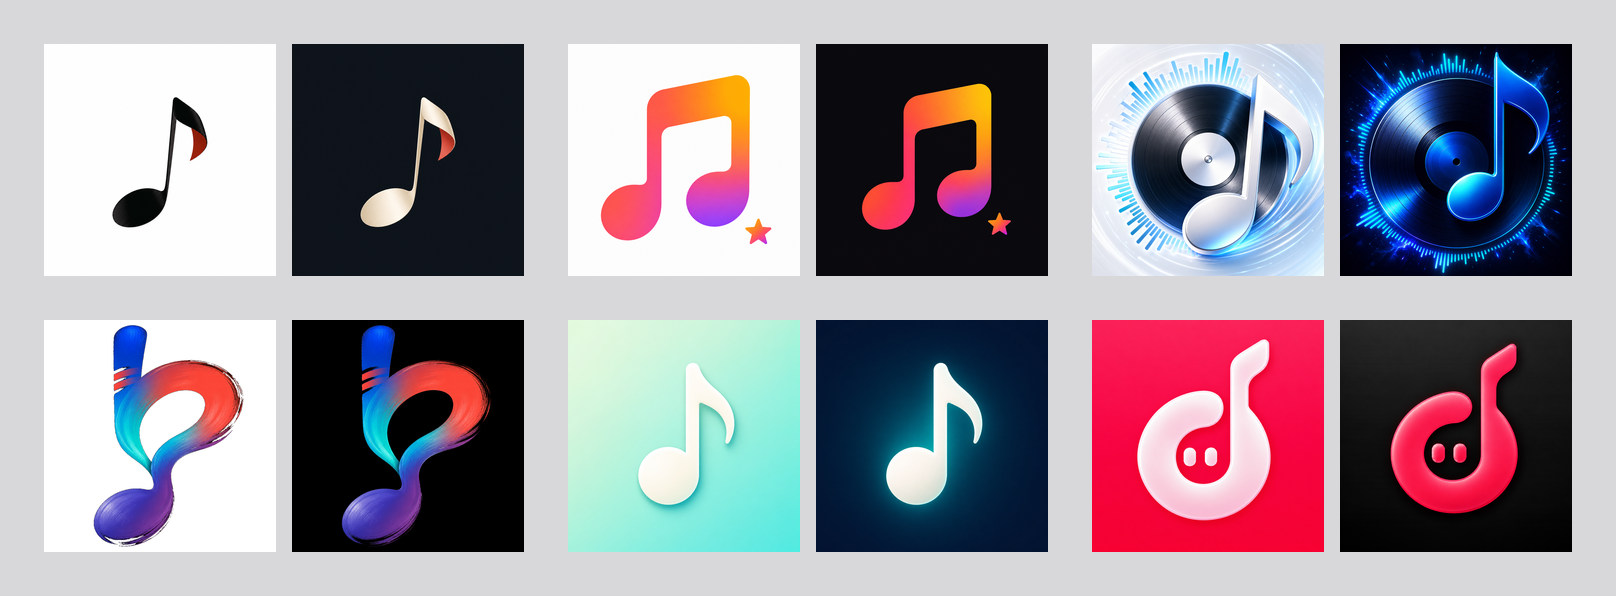
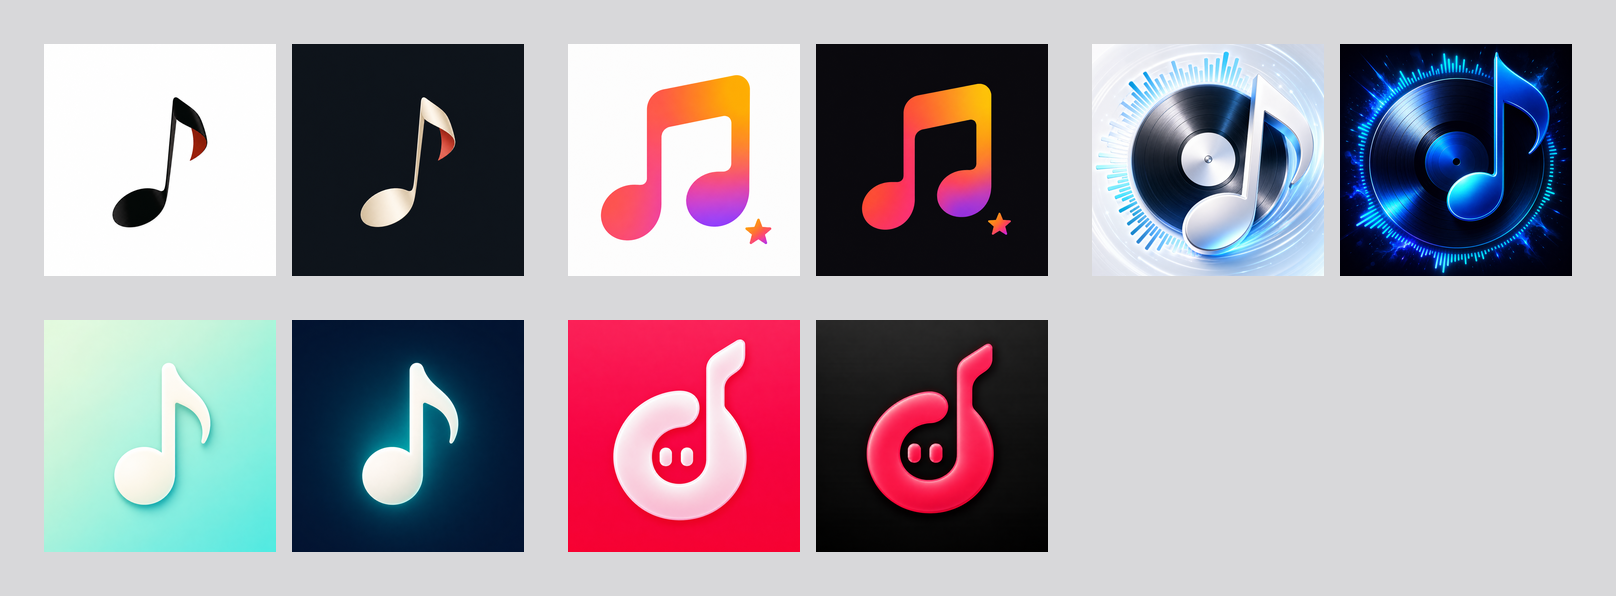
移除「彩色笔触」App 图标
已选用它的设备升级后自动回到默认图标。

diff --git a/Primuse/Views/Mac/Theme/PrimuseTheme.swift b/Primuse/Views/Mac/Theme/PrimuseTheme.swift
@@ -1615,7 +1615,6 @@ struct MacAppIcon: Identifiable, Equatable, Sendable {
         MacAppIcon(id: "",         previewAsset: "AppIconPreview",  nameKey: "icon_default", tint: Color(red: 0.914, green: 0.314, blue: 0.263)),
         MacAppIcon(id: "AppIcon9", previewAsset: "AppIcon9Preview", nameKey: "icon_theme_9", tint: Color(red: 0.078, green: 0.490, blue: 0.541)),
         MacAppIcon(id: "AppIcon12", previewAsset: "AppIcon12Preview", nameKey: "icon_theme_12", tint: Color(red: 0.965, green: 0.251, blue: 0.424)),
-        MacAppIcon(id: "AppIcon11", previewAsset: "AppIcon11Preview", nameKey: "icon_theme_11", tint: Color(red: 0.176, green: 0.651, blue: 0.890)),
         MacAppIcon(id: "AppIcon6", previewAsset: "AppIcon6Preview", nameKey: "icon_theme_6", tint: Color(red: 0.251, green: 0.835, blue: 0.784)),
         MacAppIcon(id: "AppIcon13", previewAsset: "AppIcon13Preview", nameKey: "icon_theme_13", tint: Color(red: 1, green: 0.059, blue: 0.267)),
     ]

diff --git a/Primuse/Services/AppIconService.swift b/Primuse/Services/AppIconService.swift
@@ -35,7 +35,7 @@ final class AppIconService {
 
     /// Keep the classic icon immediately after the current primary icon,
     /// then show the retained design alternatives in their existing order.
-    private static let themeOrder = [9, 12, 11, 6, 13]
+    private static let themeOrder = [9, 12, 6, 13]
 
     /// Themes that ship only a single visual variant (no dark counterpart in
     /// the asset catalog). Add a theme index here when no dark image exists.

diff --git a/scripts/generate_app_icon_assets.py b/scripts/generate_app_icon_assets.py
@@ -5,7 +5,7 @@ from __future__ import annotations
 
 from pathlib import Path
 
-from PIL import Image, ImageDraw, ImageEnhance, ImageFilter, ImageOps
+from PIL import Image, ImageDraw
 
 
 ROOT = Path(__file__).resolve().parents[1]
@@ -58,11 +58,7 @@ EXACT_ICONS = [
     ),
 ]
 
-BRUSH_ICONS = [
-    ("11-color-brush-source.png", "11-color-brush", "AppIcon11", "AppIcon11Preview"),
-]
-
-CATALOG_ORDER = ["AppIcon", "AppIcon12", "AppIcon9", "AppIcon11", "AppIcon6", "AppIcon13"]
+CATALOG_ORDER = ["AppIcon", "AppIcon12", "AppIcon9", "AppIcon6", "AppIcon13"]
 
 
 def save_direct_ios_assets(
@@ -89,39 +85,6 @@ def save_direct_ios_assets(
     any_icon.save(preview / f"{preview_name}.png", optimize=True)
     dark_icon.save(preview / f"{preview_name}-dark.png", optimize=True)
     return any_icon, dark_icon
-
-
-def make_brush_variants(source: Path) -> dict[str, Image.Image]:
-    """Preserve the selected brush artwork on pure Light/Dark backgrounds."""
-    source_image = Image.open(source).convert("RGB").resize((1024, 1024), Image.Resampling.LANCZOS)
-
-    # The selected artwork was rendered on pure black. Flood-fill only the
-    # connected black backdrop so the dark brush texture inside the mark is
-    # retained when compositing the Light appearance.
-    marker = (0, 255, 0)
-    flood = source_image.copy()
-    ImageDraw.floodfill(flood, (0, 0), marker, thresh=24)
-    ImageDraw.floodfill(flood, (600, 410), marker, thresh=24)
-    alpha = Image.new("L", source_image.size, 255)
-    alpha.putdata([0 if pixel == marker else 255 for pixel in flood.get_flattened_data()])
-    alpha = alpha.filter(ImageFilter.GaussianBlur(0.6))
-
-    foreground = source_image.convert("RGBA")
-    foreground.putalpha(alpha)
-    light = Image.new("RGBA", source_image.size, (255, 255, 255, 255))
-    light.alpha_composite(foreground)
-    dark = Image.new("RGBA", source_image.size, (0, 0, 0, 255))
-    dark.alpha_composite(foreground)
-
-    dark_rgb = dark.convert("RGB")
-    tinted = ImageOps.grayscale(dark_rgb)
-    tinted = ImageEnhance.Contrast(tinted).enhance(1.12).convert("RGB")
-
-    return {
-        "light": light.convert("RGB"),
-        "dark": dark_rgb,
-        "tinted": tinted,
-    }
 
 
 def rounded_mac_master(source: Image.Image) -> Image.Image:
@@ -204,21 +167,6 @@ def main() -> None:
             Image.open(RAW_DIR / light_name),
             Image.open(RAW_DIR / dark_name),
             Image.open(RAW_DIR / tinted_name),
-            master_stem,
-            icon_name,
-            preview_name,
-        )
-        rendered_icons[icon_name] = (light_icon, dark_icon)
-
-    for raw_filename, master_stem, icon_name, preview_name in BRUSH_ICONS:
-        variants = make_brush_variants(RAW_DIR / raw_filename)
-        variants["light"].save(RAW_DIR / f"{master_stem}.png", optimize=True)
-        variants["dark"].save(RAW_DIR / f"{master_stem}-dark.png", optimize=True)
-        variants["tinted"].save(RAW_DIR / f"{master_stem}-tinted.png", optimize=True)
-        light_icon, dark_icon = save_direct_ios_assets(
-            variants["light"],
-            variants["dark"],
-            variants["tinted"],
             master_stem,
             icon_name,
             preview_name,

diff --git a/IconDesign/AppIcons2026/README.md b/IconDesign/AppIcons2026/README.md
@@ -1,19 +1,18 @@
 # Primuse app icon system
 
-The production catalog contains one primary icon and five alternates:
+The production catalog contains one primary icon and four alternates:
 
 - `00-folded-note.png` — primary folded-note icon.
 - `12-pikaqiu.png` — user-submitted gradient music-note icon on an adaptive light, dark, or tinted background.
 - `09-classic-record.png` — historical record-and-note artwork restored as the classic icon.
-- `11-color-brush.png` — a multicolor lacquer brush that fuses the Primuse P, Jingu Bang, and music note.
 - `06-soft-note.png` — restored original soft-gradient music note.
 - `13-chris-muse.png` — Chris’s Muse, designed by Chris, with a white dimensional note on red in Light and a pink-red note on charcoal in Dark.
 
-Private Library, Lossless Audio, Record Collection, Speaker Play, and Muse Spark are intentionally no longer part of the catalog.
+Private Library, Lossless Audio, Record Collection, Speaker Play, Muse Spark, and Color Brush are intentionally no longer part of the catalog.
 
 ## Appearance system
 
-The folded note, Pikaqiu, classic record, and soft note preserve their Light, Dark, and Tinted PNGs without palette normalization. Color Brush derives pure-white Light plus grayscale Tinted artwork from its selected pure-black source.
+The folded note, Pikaqiu, classic record, and soft note preserve their Light, Dark, and Tinted PNGs without palette normalization.
 
 Chris’s Muse preserves the artwork from `13-chris-muse-light-original.jpg` and `13-chris-muse-dark-original.jpg`. The supplied rounded outer rim is removed so platform masking does not create a second edge; the note's dimensional highlights are retained. Its Tinted variant uses a silver-white note on charcoal. The selected original JPEGs are retained alongside the prepared PNGs in `raw/`.
 
@@ -34,4 +33,4 @@ The asset structure remains:
 
 Run `python3 scripts/generate_app_icon_assets.py` from the repository root. The script regenerates the retained iOS iconsets and previews, the macOS and watchOS primary icons, the contact sheet, and the Light/Dark comparison sheet.
 
-The source inputs live in `raw/`. `00-folded-note*.png`, `06-soft-note*.png`, and `09-classic-record*.png` preserve their exact artwork. `11-color-brush*.png` is a deterministic output refreshed by the generator.
+The source inputs live in `raw/`. `00-folded-note*.png`, `06-soft-note*.png`, and `09-classic-record*.png` preserve their exact artwork.
